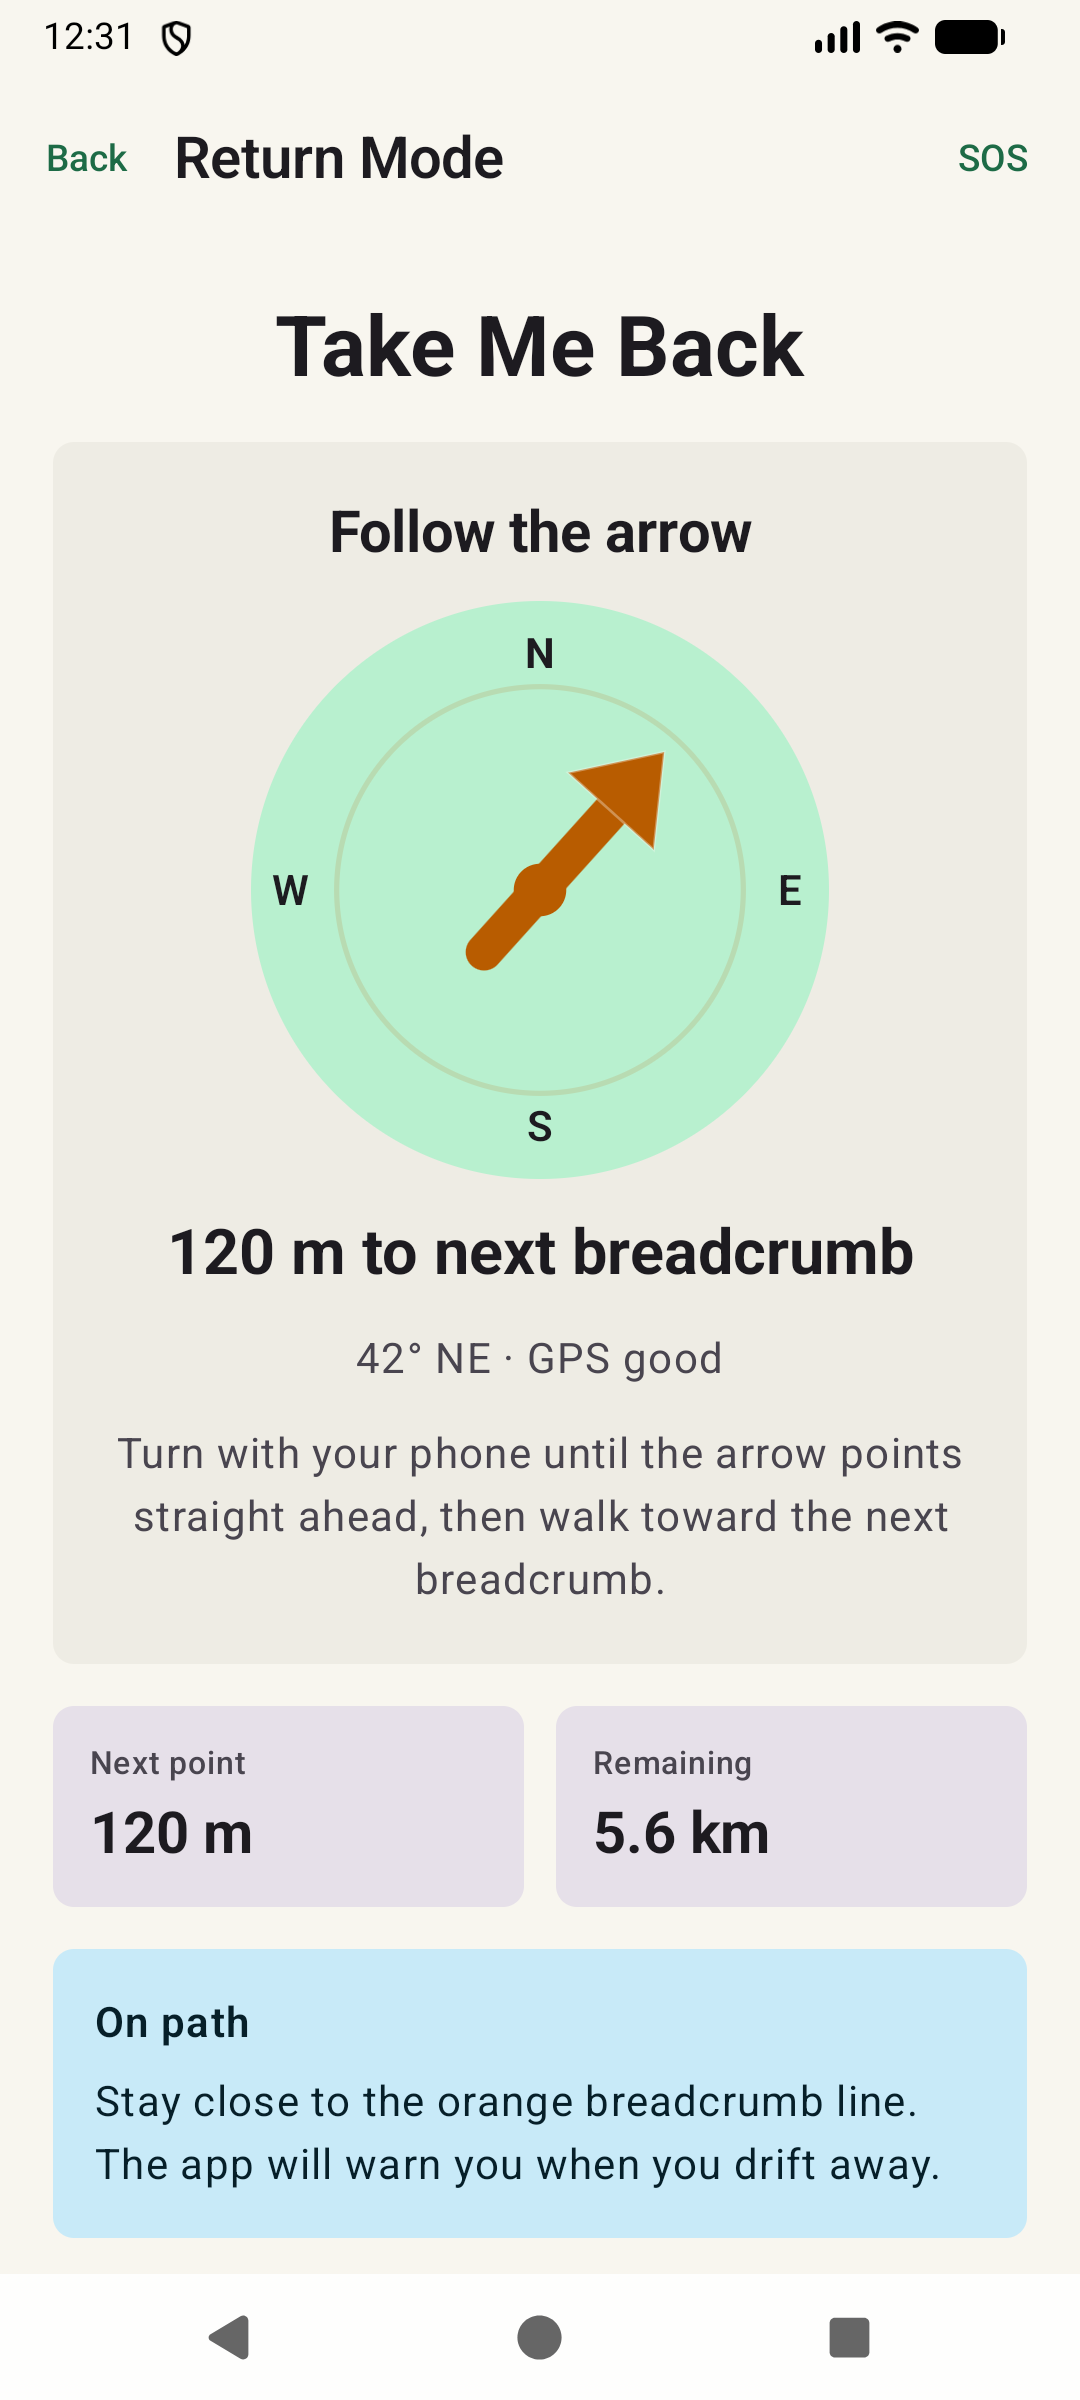
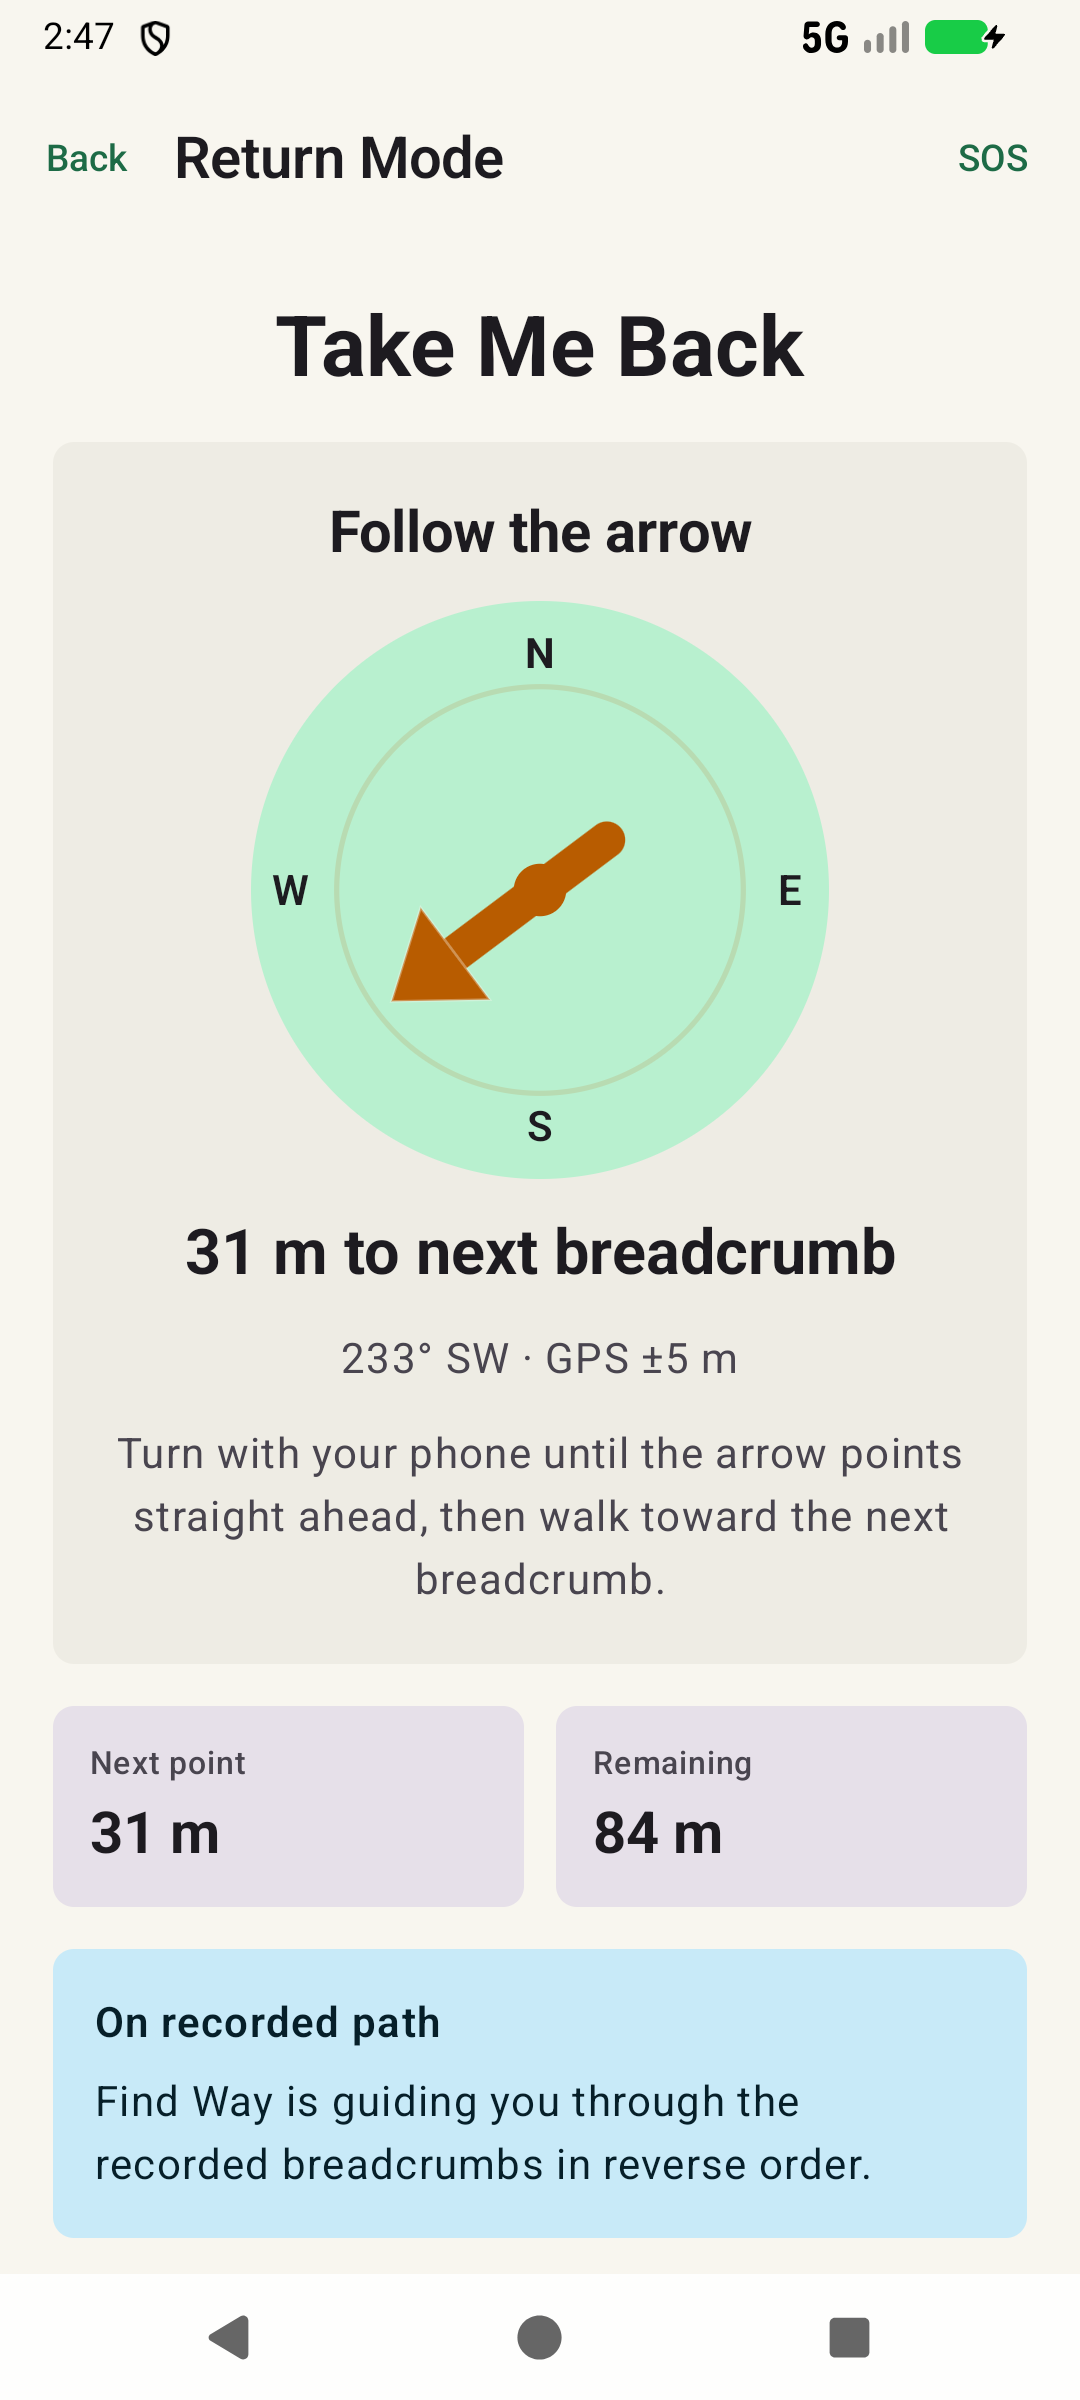
Document verified live trail recording

diff --git a/app/src/androidTest/java/com/example/findway/ui/screens/HomeScreenTest.kt b/app/src/androidTest/java/com/example/findway/ui/screens/HomeScreenTest.kt
@@ -3,6 +3,7 @@ package com.example.findway.ui.screens
 import androidx.activity.ComponentActivity
 import androidx.compose.ui.test.junit4.createAndroidComposeRule
 import androidx.compose.ui.test.onNodeWithText
+import androidx.compose.ui.test.performScrollTo
 import com.example.findway.theme.FindWayTheme
 import com.example.findway.ui.model.HomeUiState
 import org.junit.Before
@@ -32,8 +33,8 @@ class HomeScreenTest {
   fun homeScreen_showsPrimarySafetyActions() {
     composeTestRule.onNodeWithText("Trail readiness").assertExists()
     composeTestRule.onNodeWithText("Location access").assertExists()
-    composeTestRule.onNodeWithText("Start Trail").assertExists()
-    composeTestRule.onNodeWithText("Saved Trails").assertExists()
-    composeTestRule.onNodeWithText("SOS").assertExists()
+    composeTestRule.onNodeWithText("Start Trail").performScrollTo().assertExists()
+    composeTestRule.onNodeWithText("Saved Trails").performScrollTo().assertExists()
+    composeTestRule.onNodeWithText("SOS").performScrollTo().assertExists()
   }
 }

diff --git a/app/src/androidTest/java/com/example/findway/ui/screens/TrackingScreenTest.kt b/app/src/androidTest/java/com/example/findway/ui/screens/TrackingScreenTest.kt
@@ -4,6 +4,7 @@ import androidx.activity.ComponentActivity
 import androidx.compose.ui.test.hasContentDescription
 import androidx.compose.ui.test.junit4.createAndroidComposeRule
 import androidx.compose.ui.test.onNodeWithText
+import androidx.compose.ui.test.performScrollTo
 import com.example.findway.theme.FindWayTheme
 import com.example.findway.domain.TrailPoint
 import com.example.findway.ui.model.TrackingUiState
@@ -45,6 +46,6 @@ class TrackingScreenTest {
     composeTestRule.onNodeWithText("Live breadcrumb trail").assertExists()
     composeTestRule.onNodeWithText("2 points recorded").assertExists()
     composeTestRule.onNode(hasContentDescription("Recorded breadcrumb route with 2 points")).assertExists()
-    composeTestRule.onNodeWithText("Take Me Back").assertExists()
+    composeTestRule.onNodeWithText("Take Me Back").performScrollTo().assertExists()
   }
 }

diff --git a/README.md b/README.md
@@ -20,7 +20,7 @@ Find Way is intended to be an offline-first safety aid with a calm, readable int
 
 ## Project Status
 
-Find Way is currently in the **application foundation and UI prototype stage**.
+Find Way is currently a **functional Android MVP vertical slice**. The primary journey records real fused-location updates into Room, calculates route distance, persists completed trails, and guides the user back through recorded breadcrumbs using live compass heading.
 
 Implemented:
 
@@ -29,24 +29,47 @@ Implemented:
 - Single-activity, edge-to-edge application
 - Type-safe, saveable Navigation 3 routes
 - Home, Tracking, Return Mode, Saved Trails, Trail Detail, SOS, and Settings screens
-- Pre-trail readiness dashboard for location, offline recording, battery, and storage
-- Data-driven breadcrumb route visualization with start and current-position markers
-- Bearing-driven compass arrow toward the next return breadcrumb
+- Runtime foreground location permission flow
+- Device-backed readiness dashboard for permission, battery, and available storage
+- Fused Location Provider updates in a `location` foreground service
+- Ongoing recording notification with a stop action
+- Room persistence for trails and ordered GPS breadcrumbs
+- GPS accuracy and duplicate/inaccurate-point filtering
+- Live route distance, elapsed time, breadcrumb count, and accuracy
+- Data-driven breadcrumb visualization with start and current-position markers
+- Sensor-driven compass arrow toward the next return breadcrumb
 - Pure Kotlin return-progress calculation
+- Persisted Saved Trails and Trail Detail screens
+- Current-coordinate sharing and emergency dial intent
+- Hilt dependency injection
 - Unit and instrumented Compose tests
-- Successful build, launch, and test verification on an Android emulator
+- Room database integration test
+- Successful emulator journey using injected GPS coordinates
 
 Not implemented yet:
 
-- Live GPS collection
-- Foreground location service
-- Runtime location permission flow
-- Room persistence for trails and breadcrumbs
 - Real map or offline map rendering
-- Sensor-based compass heading
-- Production SOS sharing and emergency calling
+- Starting return guidance from a previously completed trail
+- User-configurable recording and alert settings
+- Off-route vibration and sound alerts
+- GPX import and export
+- Physical-device field and battery testing
+- Production emergency-service localization
 
-The current screens contain representative data while the tracking infrastructure is developed.
+The app does not insert demonstration trails or route metrics. Empty and waiting states remain visible until the device supplies GPS and sensor data.
+
+## Verified Recording Journey
+
+The current implementation was verified on an Android emulator by:
+
+1. Granting precise foreground location and notification permissions.
+2. Starting the location foreground service from Home.
+3. Injecting changing GPS coordinates through the emulator.
+4. Confirming accepted points, measured distance, elapsed time, and GPS accuracy on Tracking.
+5. Confirming calculated bearing, next-point distance, and remaining distance in Return Mode.
+6. Stopping recording and confirming the completed trail appeared in Saved Trails.
+
+One verification run recorded four accepted breadcrumbs over 105 m. A second run produced the screenshots above from three accepted breadcrumbs over 83 m.
 
 ## Product Goals
 
@@ -64,14 +87,14 @@ Find Way is a navigation aid, not a replacement for emergency services, prepared
 - **Language:** Kotlin 2.3
 - **UI:** Jetpack Compose with Material 3
 - **Navigation:** Jetpack Navigation 3 with serializable `NavKey` routes
-- **Architecture direction:** UI, domain, and data layers with unidirectional data flow
+- **Architecture:** UI, domain, data, device, and location layers with unidirectional data flow
 - **Asynchronous work:** Kotlin Coroutines and Flow
 - **Build system:** Gradle 9.1 with Android Gradle Plugin 9
 - **Android SDK:** compile/target SDK 36, minimum SDK 24
 - **Java:** Java 17 source compatibility using JDK 21 toolchain
 - **Testing:** JUnit 4 and Android Compose UI testing
 
-Planned platform components include Room, DataStore, Hilt, Fused Location Provider, and an Android location foreground service.
+Room, Hilt, Fused Location Provider, Android sensors, and a location foreground service are integrated. DataStore remains planned for future user settings.
 
 ## Current Navigation
 
@@ -94,13 +117,13 @@ Navigation state uses `rememberNavBackStack`, allowing the back stack to survive
 ```text
 Compose Screen
     |
-Screen ViewModel / UI State
+App ViewModel / Immutable UI State
     |
-Domain Use Cases
+Domain Calculations and Filtering
     |
 Repositories
     |
-Room | Location Provider | Sensors | DataStore
+Room | Foreground Location Service | Sensors | Device Status
 ```
 
 The application will follow these principles:
@@ -118,21 +141,28 @@ The application will follow these principles:
 ```text
 app/src/main/java/com/example/findway/
 |-- MainActivity.kt              # Single Android activity
+|-- FindWayApplication.kt        # Hilt application entry point
 |-- Navigation.kt                # Navigation 3 graph and destination wiring
 |-- NavigationKeys.kt            # Typed navigation keys
+|-- data/                         # Room repository and persistent entities
+|-- device/                       # Battery and storage readiness state
 |-- domain/
-|   `-- TrailProgress.kt         # Breadcrumb return-progress logic
+|   |-- TrailProgress.kt         # Breadcrumb return-progress logic
+|   `-- BreadcrumbAcceptancePolicy.kt
+|-- location/                     # Foreground recorder and compass heading
 |-- theme/                       # Material 3 colors, typography, and theme
 |-- ui/model/
+|   |-- AppUiState.kt            # Device and repository-backed screen state
 |   `-- TrailUiModels.kt         # Readiness and breadcrumb-map UI state
+|-- ui/AppViewModel.kt           # State aggregation and recording actions
 `-- ui/screens/
-    `-- AppScreens.kt            # Current Compose screen prototypes
+    `-- AppScreens.kt            # Compose screens and state rendering
 
 app/src/test/                    # Local JVM unit tests
 app/src/androidTest/             # Emulator/device Compose tests
 ```
 
-The screen file will be separated into feature packages as each feature gains state, ViewModels, repositories, and production behavior.
+The screen file will be separated into feature packages as the application grows beyond the current MVP scope.
 
 ## Getting Started
 
@@ -190,6 +220,8 @@ Current coverage includes:
 - Off-route threshold detection
 - Presence of the Home screen's readiness state and primary safety actions
 - Presence of active tracking status, recorded-point count, breadcrumb route, and return action
+- Breadcrumb accuracy and movement filtering
+- Room persistence across active and completed trail states
 
 ## Development Roadmap
 
@@ -197,31 +229,31 @@ Current coverage includes:
 
 - [x] Compose project and theme
 - [x] Navigation 3 app shell
-- [x] Core screen prototypes
+- [x] Core state-driven screens
 - [x] Initial unit and Compose tests
+- [x] Hilt dependency injection
 - [ ] Split screens into feature packages
-- [ ] Add Hilt dependency injection
 
 ### Phase 2: Trail Storage
 
-- [ ] Define trail, breadcrumb, and marker models
-- [ ] Add Room database and DAOs
-- [ ] Add repository interfaces and in-memory test fakes
-- [ ] Persist active and completed trails
+- [x] Define trail and breadcrumb models
+- [x] Add Room database and DAO
+- [x] Add repository interface and Room implementation
+- [x] Persist active and completed trails
 
 ### Phase 3: Location Recording
 
-- [ ] Add location permission education and requests
-- [ ] Integrate Fused Location Provider
-- [ ] Add a location foreground service and persistent notification
-- [ ] Filter inaccurate and duplicate points
+- [x] Add contextual foreground location permission requests
+- [x] Integrate Fused Location Provider
+- [x] Add a location foreground service and persistent notification
+- [x] Filter inaccurate and redundant points
 - [ ] Add battery-aware recording profiles
 
 ### Phase 4: Return Guidance
 
-- [ ] Connect return progress to live location
-- [ ] Add compass and bearing guidance
-- [ ] Render the recorded route and current position
+- [x] Connect active-trail return progress to live recorded location
+- [x] Add sensor-backed compass and bearing guidance
+- [x] Render the recorded route and current position
 - [ ] Add off-route vibration and sound alerts
 - [ ] Handle weak, approximate, and unavailable GPS states
 
